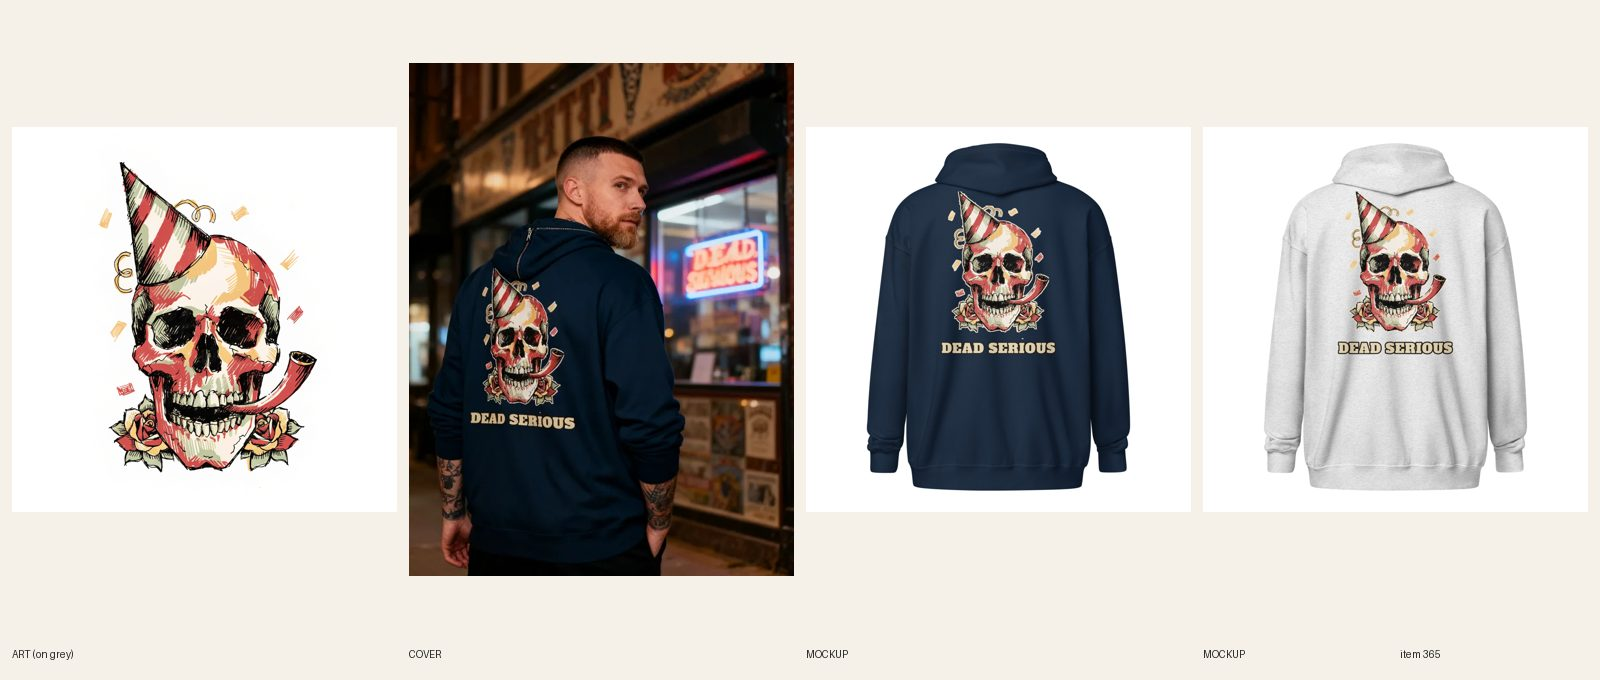
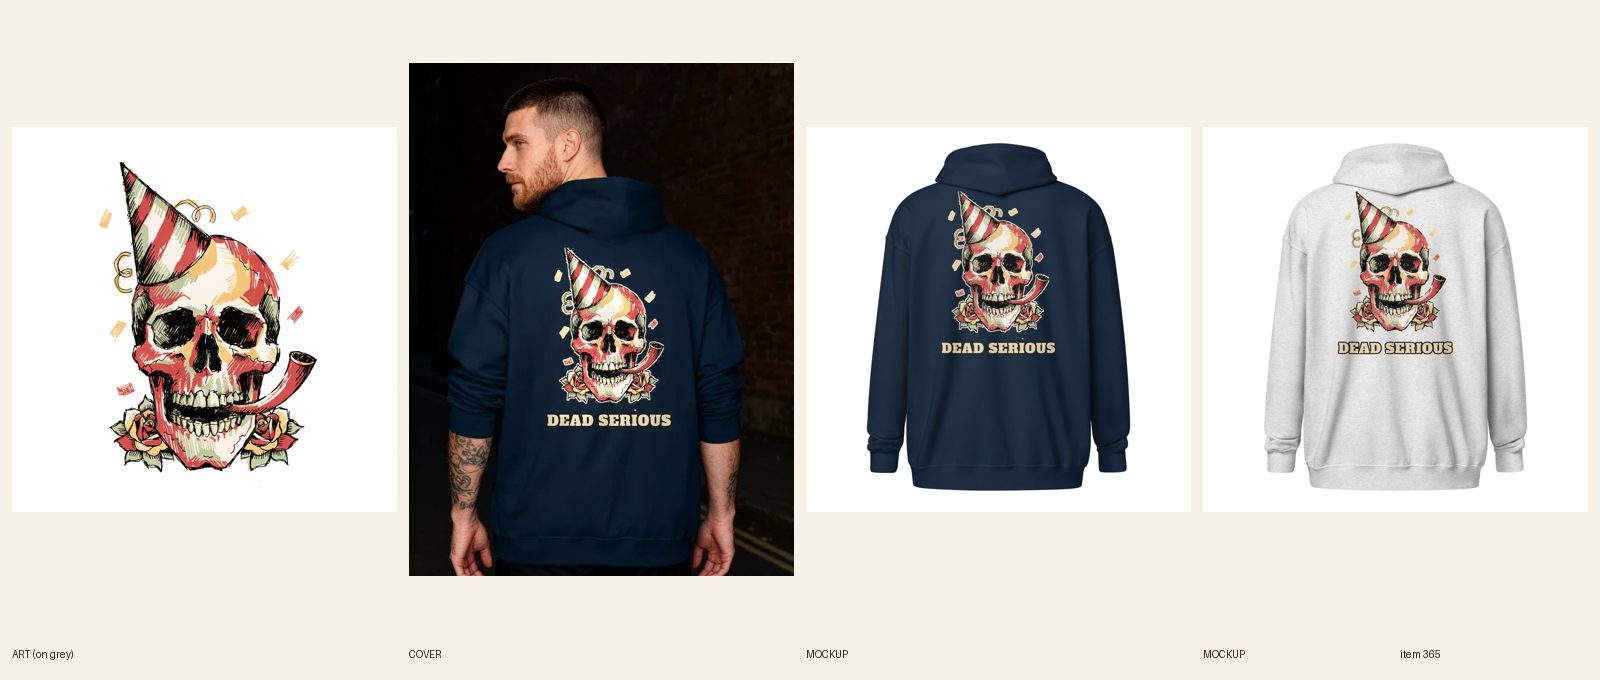
[E] review 365 redo: cover without back seam or signs

Changed region(s): [[0.25, 0.0926, 0.5, 0.8647]]

diff --git a/src/data/covers.ts b/src/data/covers.ts
@@ -481,7 +481,7 @@ export const covers: Record<string, { src: string; alt: string }> = {
   'mens-gym-twelve-labors-zero-cardio-graphic-tee': { src: '/covers/mens-gym-twelve-labors-zero-cardio-graphic-tee.webp', alt: 'Man in a garage gym with a squat rack and weight plates, a treadmill behind him, wearing the Twelve Labors. Zero Cardio. tee' },
   'womens-national-park-my-type-geothermally-active-oversized-hoodie': { src: '/covers/womens-national-park-my-type-geothermally-active-oversized-hoodie.webp', alt: 'Woman smiling in a navy My Type Geothermally Active oversized hoodie with her hands in the pouch pocket on a boardwalk beside steaming hot springs, pines and a coffee cup on the rail' },
   'womens-national-park-two-queens-roaming-hoodie': { src: '/covers/womens-national-park-two-queens-roaming-hoodie.webp', alt: 'Two women in matching navy Two Queens Roaming bison hoodies with hands in the pouch pockets on a gravel pullout above a grassland valley with bison grazing in the distance' },
-  'mens-skull-dead-serious-zip-hoodie': { src: '/covers/mens-skull-dead-serious-zip-hoodie.webp', alt: 'Man looking back over his shoulder outside a vintage tattoo parlor at night wearing the Dead Serious skull navy zip hoodie' },
+  'mens-skull-dead-serious-zip-hoodie': { src: '/covers/mens-skull-dead-serious-zip-hoodie.webp', alt: 'Man seen from behind on a quiet brick street at dusk looking over his shoulder wearing the Dead Serious skull navy zip hoodie' },
   'womens-national-park-swipe-right-on-public-land-zip-hoodie': { src: '/covers/womens-national-park-swipe-right-on-public-land-zip-hoodie.webp', alt: 'Woman looking back and smiling over her shoulder in a navy Swipe Right on Public Land zip hoodie with the hood down and her braid over the front shoulder, on a canyon-rim overlook trail at sunrise' },
   'womens-knitting-one-more-row-crewneck-sweatshirt': { src: '/covers/womens-knitting-one-more-row-crewneck-sweatshirt.webp', alt: 'Woman in a Sand One More Row knitter crewneck sweatshirt in a lamplit living room with a basket of yarn' },
   'unisex-national-park-running-late-bison-traffic-heavyweight-hoodie': { src: '/covers/unisex-national-park-running-late-bison-traffic-heavyweight-hoodie.webp', alt: 'Man and woman in matching storm blue Running Late Bison Traffic heavyweight hoodies with their hands in the pouch pockets beside a vintage station wagon on a two-lane park road with mountains behind' },

diff --git a/docs/pipeline/365-skull-zip-dead-serious.md b/docs/pipeline/365-skull-zip-dead-serious.md
@@ -1,4 +1,4 @@
-status: BUILDING [E] 2026-10-18 02:05 UTC
+status: REVIEW
 lane: E
 type: new
 id: 365
@@ -28,3 +28,4 @@ kd: 36
 - 2026-10-17 20:25 UTC Claude: READY (Sam: build everything planned). Shopify DRAFT exists: art, sync, mockups, cover, review. Words in real fonts via scripts/compose-print.py, AI draws the picture only, big on the chest (R4.8). Lane E.
 - 2026-10-18 02:40 UTC builder [E]: REVIEW. Art: 1 Recraft call (try 1 kept: party-hat tattoo-flash skull, horn, confetti, two roses), DEAD SERIOUS in Alfa Slab One cream with a dark keyline via compose-print (no model lettering), solid fill plus a thin cream halo so the dark linework reads on Navy. Back print 11.1 x 15.8 in at BW 1560 BT 40 plus a left-chest skull (file via pf-zip, CW 450); sync 482403190 12/12. Ash + Navy both read at phone size (words legible on both). Media: back + front per color, variants linked to the back view. Copy rewritten to the real art (cream slab capitals, confetti, roses; 'hand-drawn' dropped), 6 FAQs 46-51 words incl. Dec 8. Cover registry 556 try 1: over-the-shoulder back view, face in frame, hood visible, full print and both words readable, nothing over it (a neon DEAD SERIOUS sign sits in the window behind him: director may crop if unwanted). Variant-photo audit clean; audit --handle only 'not visible'. fal ~$0.1.
 - 2026-10-18 01:21 UTC director: REDO (stays DRAFT; art, copy and colors pass). (1) R6.8 hoodie covers: the zip hoodie on the cover shows a zipper line running down the BACK from the neck to the print; zip-ups zip at the front only. (2) R6.8: the background has garbled sign lettering (top storefront) and a neon sign that repeats DEAD SERIOUS, which reads as an AI echo of the print. Use the one extra cover attempt (R6.9): Navy back mockup as --design, 'plain zip-up hoodie, no seam or zipper on the back, hood visible', a plain brick wall or dim street with no signs or lettering, hands empty. If the zipper line persists, composite the back print from the mockup and repaint the seam.
+- 2026-10-18 04:35 UTC builder [E]: REDO done, REVIEW (cover only; art, copy, colors untouched). Attempt 2 (Navy back mockup as --design, plain zip-up, plain dim brick wall, no signs or lettering): background and neon echo fixed, but the thin vertical zipper/seam line still ran down the back through the skull, so per the director's fallback the exact back print from the mockup was composited and the seam repainted (R6.9). Result: smooth back, no seam, hood visible, face in profile, full print and both words readable. Cover alt updated (brick street, no tattoo parlor). fal $0.06.

diff --git a/docs/intake-log.md b/docs/intake-log.md
@@ -1,4 +1,5 @@
 2026-10-18 02:00 UTC — [B] REVIEW #522 Women's Gigi – Because Grandma Sounded Old Crewneck (DRAFT, synced 12/12, Sand + Sport Grey, FW 1500; fal $0.10).
+2026-10-18 04:36 UTC — [E] REVIEW #365 (REDO: cover redone, no back seam, no sign lettering, composite).
 RUNNING lane C since 2026-10-18 01:55 UTC
 2026-10-18 04:21 UTC — [E] REVIEW #514 (REDO: MEMBERS ONLY dropped, new mockups, cover re-composited on both people).
 2026-10-18 01:51 UTC — [B] REVIEW #521 Women's Mimi – Mimi Says Yes Crewneck (DRAFT, synced 12/12, Sand + Light Pink, FW 1500; fal $0.10).
